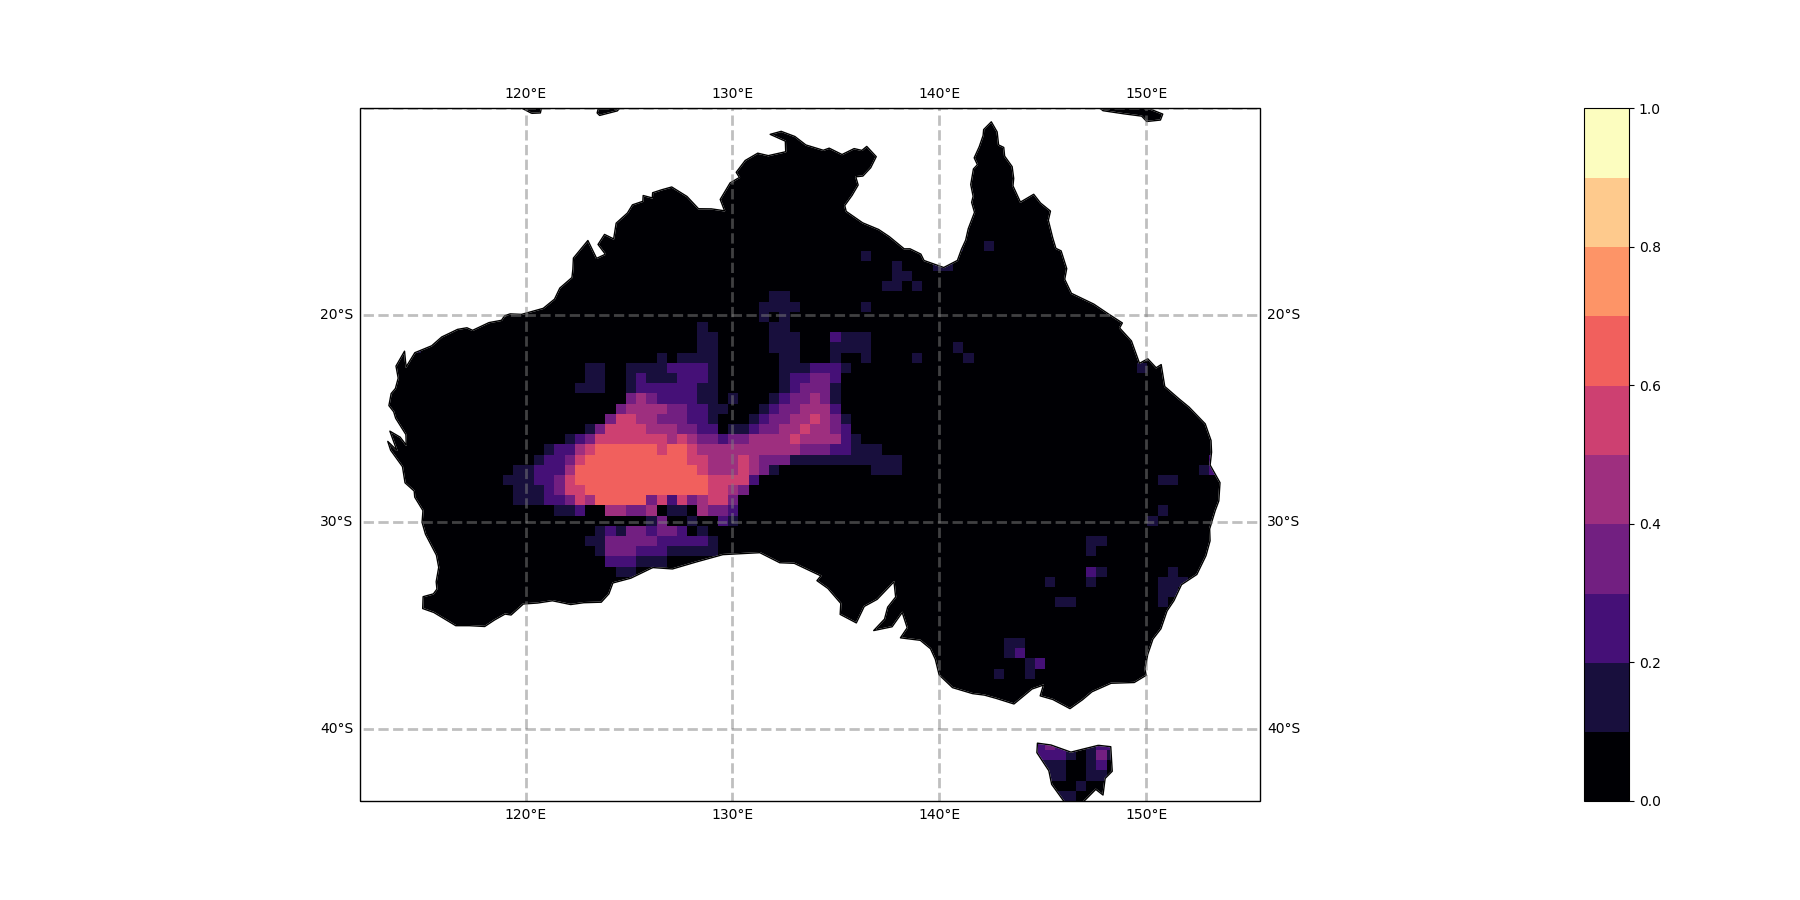
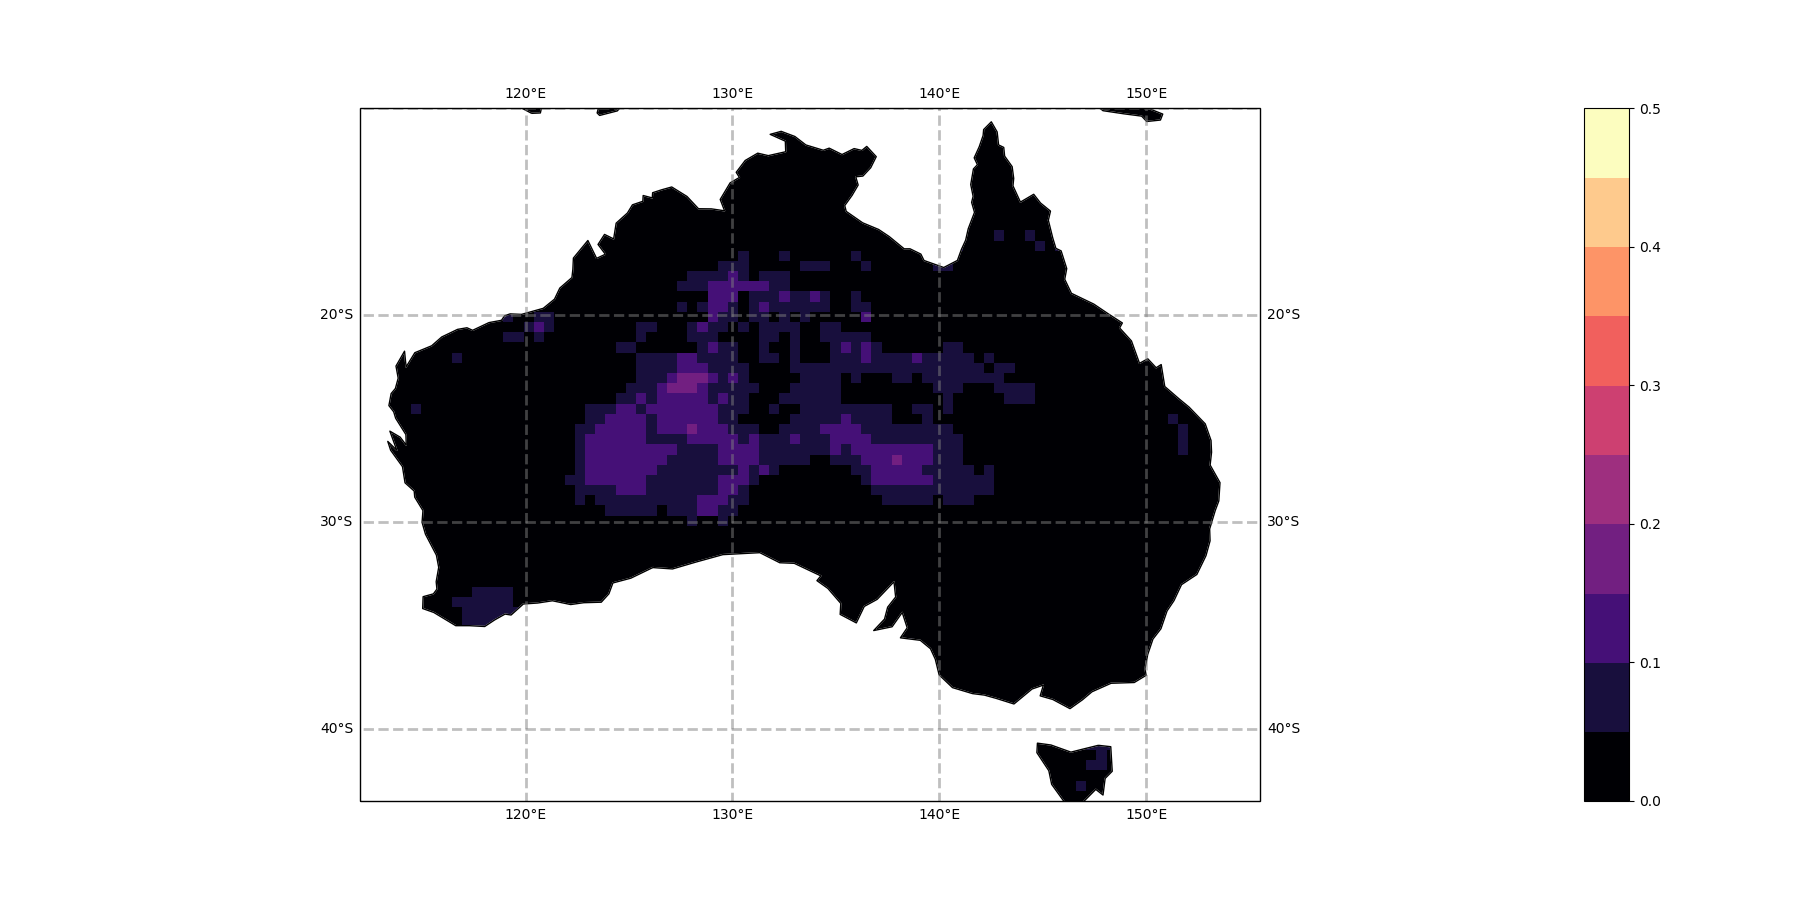
tweaks and updates

diff --git a/WinterSchool.py b/WinterSchool.py
@@ -23,6 +23,7 @@ import matplotlib.pyplot as plt
 import matplotlib.colors as mpc
 import matplotlib as mpl
 import palettable 
+import statsmodels.formula.api as smf
 import Modules.PlotFunctions as pf
 # Import debugging packages 
 import ipdb
@@ -41,7 +42,7 @@ def main():
 	anuvals = NCopener(xval=24)
 
 #==============================================================================
-def NCopener(xval=24):
+def NCopener(xval=29):
 	"""
 	Function opens the detrended NC file, then precesses it
 	args:
@@ -93,12 +94,13 @@ def NCopener(xval=24):
 	# stack the annual counds of extere values
 	xccount = np.dstack(stack)
 
-	# load the enso data
-	enso =  np.asarray(pd.read_csv("./best.csv")).reshape(-1) 
-
 	#  perform the regression
 	print("Starting the regressions")
 	
+	# load the enso data
+	enso =  np.asarray(pd.read_csv("./best.csv")).reshape(-1) 
+	IOD =  np.asarray(pd.read_csv("./dmi_std.csv")).reshape(-1) 
+
 	# get the regression coeficents (slope, intercept, r2, pvalue, std error)
 	coef = threeDloop(xccount, enso)
 
@@ -108,39 +110,64 @@ def NCopener(xval=24):
 	pval  = coef[:, :, 3] 
 	slope[pval>0.05] = np.NAN 
 	inter[pval>0.05] = np.NAN 
-	# coef[:, :, 0] = slope
-	# coef[:, :, 1] = inter
-
-
-
-	np.save("./regression_coef.npy", coef)
-
+	np.save("./regression_coef_ENSO.npy", coef)
 
 	# make a map
-	mapper(coef)
+	# mapper(coef, "ENSO (NINO 3.4)")
+	coef = None 
+
+	# load the enso data
+	
+	# get the regression coeficents (slope, intercept, r2, pvalue, std error)
+	coef = threeDloop(xccount, IOD)
+
+	# mask p>0.05 (non significant)
+	slope = coef[:, :, 0] 
+	inter = coef[:, :, 1] #intercept
+	pval  = coef[:, :, 3] 
+	slope[pval>0.05] = np.NAN 
+	inter[pval>0.05] = np.NAN 
+	np.save("./regression_coef_IOD.npy", coef)
+	# make a map
+	# mapper(coef, "IOD (DMI)")
+
+	coef = None 
+	coef = threeDloop(xccount, enso, IOD)
+
+	# mask p>0.05 (non significant)
+	slope = coef[:, :, 0] 
+	inter = coef[:, :, 1] #intercept
+	pval  = coef[:, :, 3] 
+	slope[pval>0.05] = np.NAN 
+	inter[pval>0.05] = np.NAN 
+	np.save("./regression_coef_IODandENso.npy", coef)
+	mapper(coef, "ENSOandIOD")
+
+
+
 
 #==============================================================================
-def mapper(coef):
+def mapper(coef, varmode):
 
 	"""Takes the recression coeficents and makes maps of them"""
 	
 	# =========== slope ===========
- 	print("Map of the slope")
+ 	print("Map of the slope Hot Nigths vs %s " % varmode)
 	
 	# build an object to hold the metadata
 	# 	Cheat by using a class i built, 
 	#    its just a container for infomation for the plot
 	mapdet = pf.mapclass(region="AUS")
 	# pick a colormap
-	cmap = mpc.ListedColormap(palettable.colorbrewer.diverging.RdBu_8_r.mpl_colors)
+	cmap = mpc.ListedColormap(palettable.colorbrewer.diverging.RdBu_10_r.mpl_colors)
 	cmap.set_bad(mapdet.maskcol)
 	mapdet.cmap = cmap
 	# set the min and max for the colormap
-	mapdet.cmin = - 0.4
-	mapdet.cmax =   0.4
+	mapdet.cmin =  -10.0
+	mapdet.cmax =   10.0
 
 	# set thee title
-	mapdet.var  = "Slope"
+	mapdet.var  = "HotNightsvs%s_Slope" %  varmode
 	pf.mapmaker(coef[:, :, 0], mapdet)
 	
 	# =========== R2 ===========
@@ -153,10 +180,10 @@ def mapper(coef):
 	mapdet.cmap = cmap
 	# set the min and max for the colormap
 	mapdet.cmin   = 0
-	mapdet.cmax   = 1.0
+	mapdet.cmax   = 0.5
 	mapdet.extend = "neither"
 	# set thee title
-	mapdet.var    = "R2"
+	mapdet.var    = "HotNightsvs%s_R2" %  varmode
 	pf.mapmaker(coef[:, :, 2], mapdet)
 	
 	# =========== p values ===========
@@ -172,7 +199,7 @@ def mapper(coef):
 	mapdet.cmax   = 0.5
 	mapdet.extend = "max"
 	# set thee title
-	mapdet.var    = "pvalues"
+	mapdet.var    = "HotNightsvs%s_pvalues" %  varmode
 	pf.mapmaker(coef[:, :, 3], mapdet)
 
 def time_split(t):
@@ -196,18 +223,22 @@ def time_split(t):
 	# print(y)
    	return y
 
-@jit
-def threeDloop(xccount, enso):
+# @jit
+def threeDloop(xccount, index, other=None):
 
 	coef = np.zeros((xccount.shape[0], xccount.shape[1], 5))
 	# loop ove the y and x dim
 	for y in range(0, xccount.shape[0]):
 		for x in range(0, xccount.shape[1]):
-			coef[y, x, :] = scipyols(xccount[y, x, :], enso)
+			if other is None:
+				coef[y, x, :] = scipyols(xccount[y, x, :], index)
+			else:
+				df = pd.DataFrame({"nights":xccount[y, x, :], "enso":index, "IOD":other})
+				coef[y, x, :] = MV_OLS(df)
 	return coef
 
 @jit
-def scipyols(array, enso):
+def scipyols(array, index):
 	"""
 	Function for rapid OLS with time. the regression is done with 
 	an independent variable rangeing from 0 to array.shape to make
@@ -219,12 +250,30 @@ def scipyols(array, enso):
 						 slope, intercept, rsquared, pvalue, std_error
 	"""
 	# +++++ Get the OLS +++++
-	slope, intercept, r_value, p_value, std_err = stats.linregress(
-		np.arange(array.shape[0]), array)
+	slope, intercept, r_value, p_value, std_err = stats.linregress(index, array)
 	# +++++ calculate the total change +++++
 	# +++++ return the results +++++
 	return np.array([slope, intercept, r_value**2, p_value, std_err])
 
-
+def MV_OLS(df):
+	"""
+	Function for rapid OLS with time. the regression is done with 
+	an independent variable rangeing from 0 to array.shape to make
+	the intercept the start which simplifies calculation
+	args:
+		array 		np : numpy array of annual max VI over time 
+		dummy 		np : numpy array containg the breakpoint variable
+	return
+		result 		np : change(total change between start and end)
+	"""
+			
+	# ========== Fit the regression ============
+	mod = smf.ols(formula = 'nights~enso*IOD', data=df).fit()
+	# ===== Pull out key values =====
+	# change   = mod.fittedvalues[33] - mod.fittedvalues[0] - bh
+	ipdb.set_trace()
+	r2_value = mod.rsquared 
+	p_value  = mod.f_pvalue
+	return np.array([np.NAN, np.NAN, r2_value, p_value, np.NAN])
 if __name__ == '__main__':
 	main()
